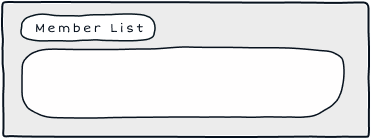
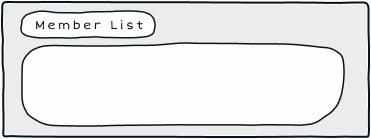
aa

Changed region(s): [[0.0296, 0.0576, 0.9488, 0.4604], [0.0593, 0.5755, 0.9488, 0.9209]]

diff --git a/screens/TeamPageChem.tsx b/screens/TeamPageChem.tsx
@@ -9,6 +9,7 @@ import {
   ImageBackground,
   Text,
   Alert,
+  ScrollView,
 } from 'react-native';
 import { useNavigation } from '@react-navigation/native';
 import { StackNavigationProp } from '@react-navigation/stack';
@@ -30,28 +31,39 @@ const TeamPageChem: React.FC = () => {
   const [code, setCode] = useState('');
   const [isFocused, setIsFocused] = useState(false);
   const [teamData, setTeamData] = useState<any>(null);
+  const [memberNames, setMemberNames] = useState<string[]>([]);
 
   useEffect(() => {
-    const fetchTeam = async () => {
+    const fetchTeamAndMembers = async () => {
       if (!user) return;
       try {
         const teams = await queryDocuments('teams', [
           where('memberIds', 'array-contains', user.uid)
         ]);
         if (teams.length > 0) {
-          // Sort in memory to avoid needing a Firestore composite index
           const sorted = teams.sort((a, b) => {
             const dateA = a.createdAt?.toDate ? a.createdAt.toDate() : new Date(a.createdAt);
             const dateB = b.createdAt?.toDate ? b.createdAt.toDate() : new Date(b.createdAt);
             return dateB.getTime() - dateA.getTime();
           });
-          setTeamData(sorted[0]);
+          const latestTeam = sorted[0];
+          setTeamData(latestTeam);
+
+          // Fetch member names
+          if (latestTeam.memberIds && latestTeam.memberIds.length > 0) {
+            const profiles = await queryDocuments('profiles', [
+              where('uid', 'in', latestTeam.memberIds)
+            ]);
+            // Map names in order of memberIds or just alphabetically
+            const names = profiles.map((p: any) => p.fullName || 'Unknown Member');
+            setMemberNames(names);
+          }
         }
       } catch (error) {
-        console.error('[TeamPage] Error fetching team:', error);
+        console.error('[TeamPage] Error fetching data:', error);
       }
     };
-    fetchTeam();
+    fetchTeamAndMembers();
   }, [user]);
 
   const getWeekRange = (createdAt: any) => {
@@ -262,6 +274,31 @@ const TeamPageChem: React.FC = () => {
               <View style={styles.fullImage} />
             </TouchableOpacity>
           </View>
+        </ImageBackground>
+
+        {/* Member List Box */}
+        <ImageBackground
+           source={require('../assets/TeamPageChemAssets/memberBoxTeam.png')}
+           style={styles.memberBox}
+           resizeMode="stretch"
+        >
+           <View style={styles.memberListTitleBubble}>
+              <Text style={styles.memberListTitleText}>Member List</Text>
+           </View>
+           <ScrollView 
+              style={styles.memberListScroll}
+              contentContainerStyle={styles.memberListScrollContent}
+              showsVerticalScrollIndicator={false}
+           >
+              {memberNames.map((name, index) => (
+                <Text key={index} style={styles.memberNameText}>
+                  {index + 1}. {name}
+                </Text>
+              ))}
+              {memberNames.length === 0 && (
+                <Text style={styles.memberNameText}>No members found</Text>
+              )}
+           </ScrollView>
         </ImageBackground>
 
 
@@ -492,6 +529,51 @@ const styles = StyleSheet.create({
     width: s(72),
     height: s(72),
   },
+  memberBox: {
+    position: 'absolute',
+    top: s(580),
+    alignSelf: 'center',
+    width: s(380),
+    height: s(155),
+    zIndex: 10,
+    paddingHorizontal: s(25),
+    paddingTop: s(15),
+  },
+  memberListTitleBubble: {
+    backgroundColor: '#ffffff',
+    borderWidth: s(1.5),
+    borderColor: '#08121e',
+    borderRadius: s(15),
+    paddingHorizontal: s(15),
+    paddingVertical: s(3),
+    alignSelf: 'flex-start',
+    marginLeft: s(-5),
+    marginTop: s(-5),
+  },
+  memberListTitleText: {
+    fontFamily: FONTS.ui,
+    fontSize: s(13),
+    color: '#08121e',
+    fontWeight: 'bold',
+  },
+  memberListScroll: {
+    marginTop: s(10),
+    flex: 1,
+    backgroundColor: '#ffffff',
+    borderRadius: s(15),
+    padding: s(10),
+    borderWidth: s(1),
+    borderColor: '#000000',
+  },
+  memberListScrollContent: {
+    paddingBottom: s(10),
+  },
+  memberNameText: {
+    fontFamily: FONTS.ui,
+    fontSize: s(14),
+    color: '#333333',
+    marginBottom: s(5),
+  },
   analysisBox: {
     position: 'absolute',
     top: s(295),
@@ -548,17 +630,17 @@ const styles = StyleSheet.create({
   },
   createButton: {
     position: 'absolute',
-    top: s(605),
+    top: s(755),
     left: s(40),
     width: s(210),
-    height: s(50),
+    height: s(40),
     zIndex: 10,
   },
   inputRow: {
     position: 'absolute',
     flexDirection: 'row',
     alignItems: 'center',
-    top: s(665),
+    top: s(805),
     left: s(40),
     zIndex: 10,
   },
@@ -591,10 +673,10 @@ const styles = StyleSheet.create({
   },
   astronaut: {
     position: 'absolute',
-    top: s(585),
+    top: s(730),
     right: s(-5),
-    width: s(250),
-    height: s(250),
+    width: s(220),
+    height: s(220),
     zIndex: 15,
   },
   bigEarth: {
